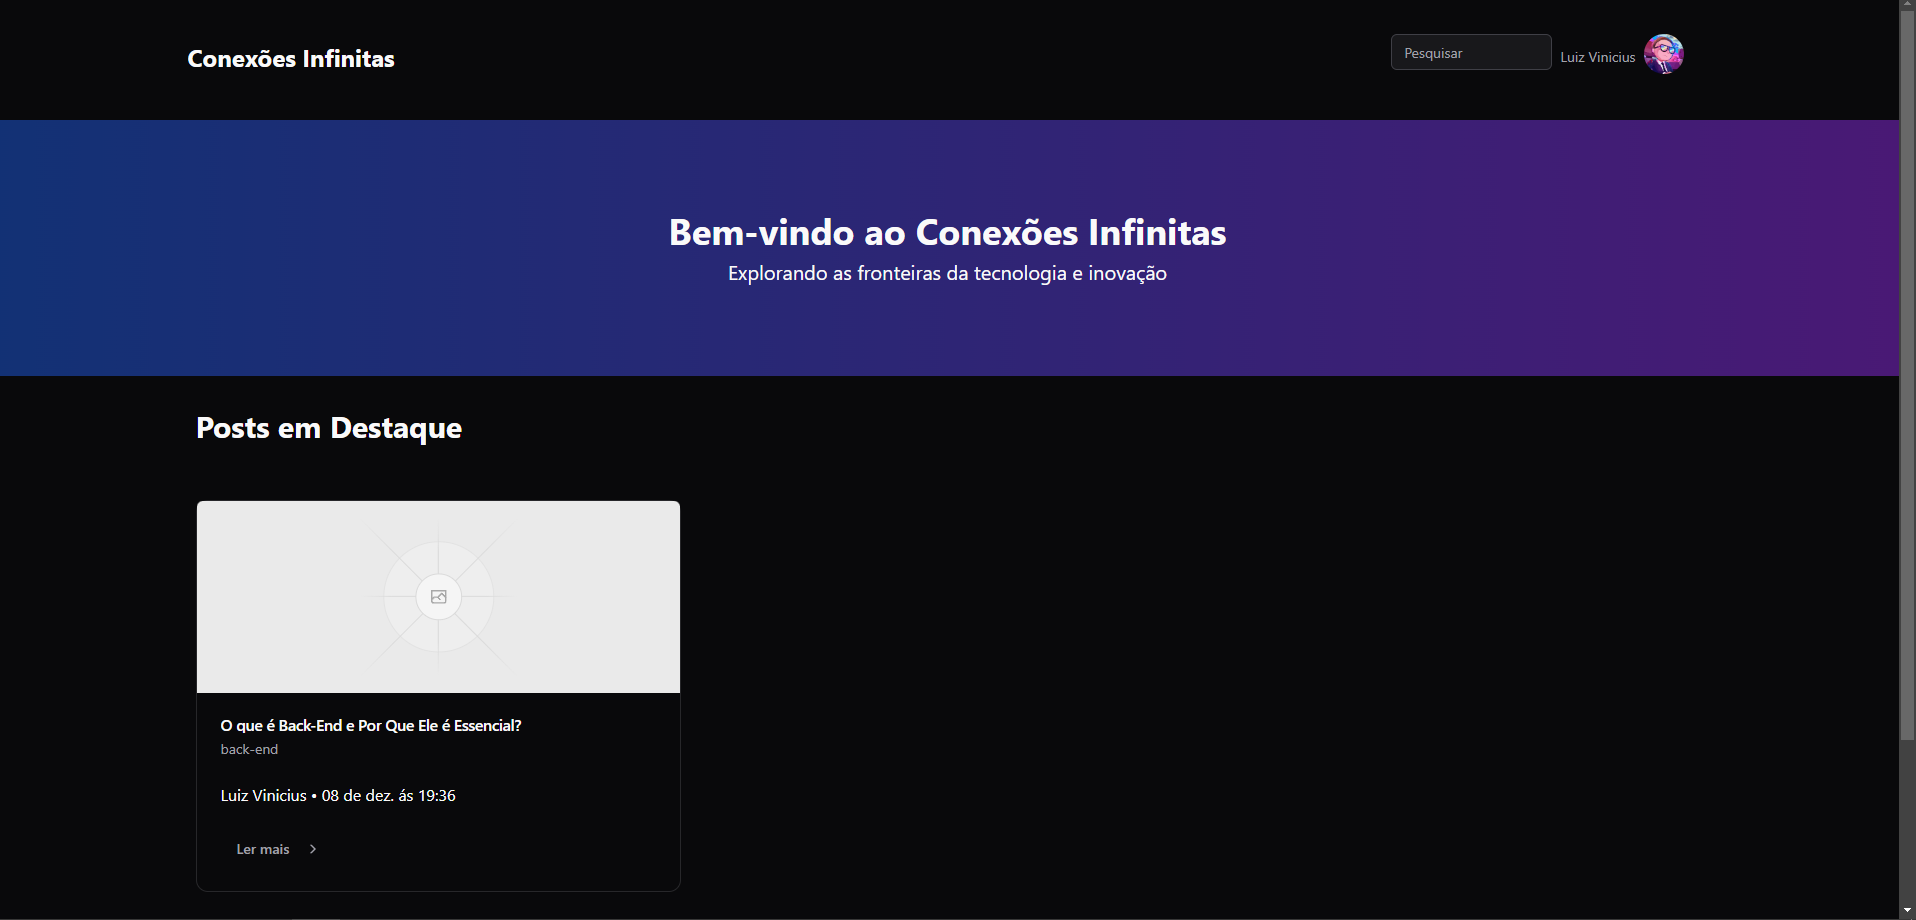
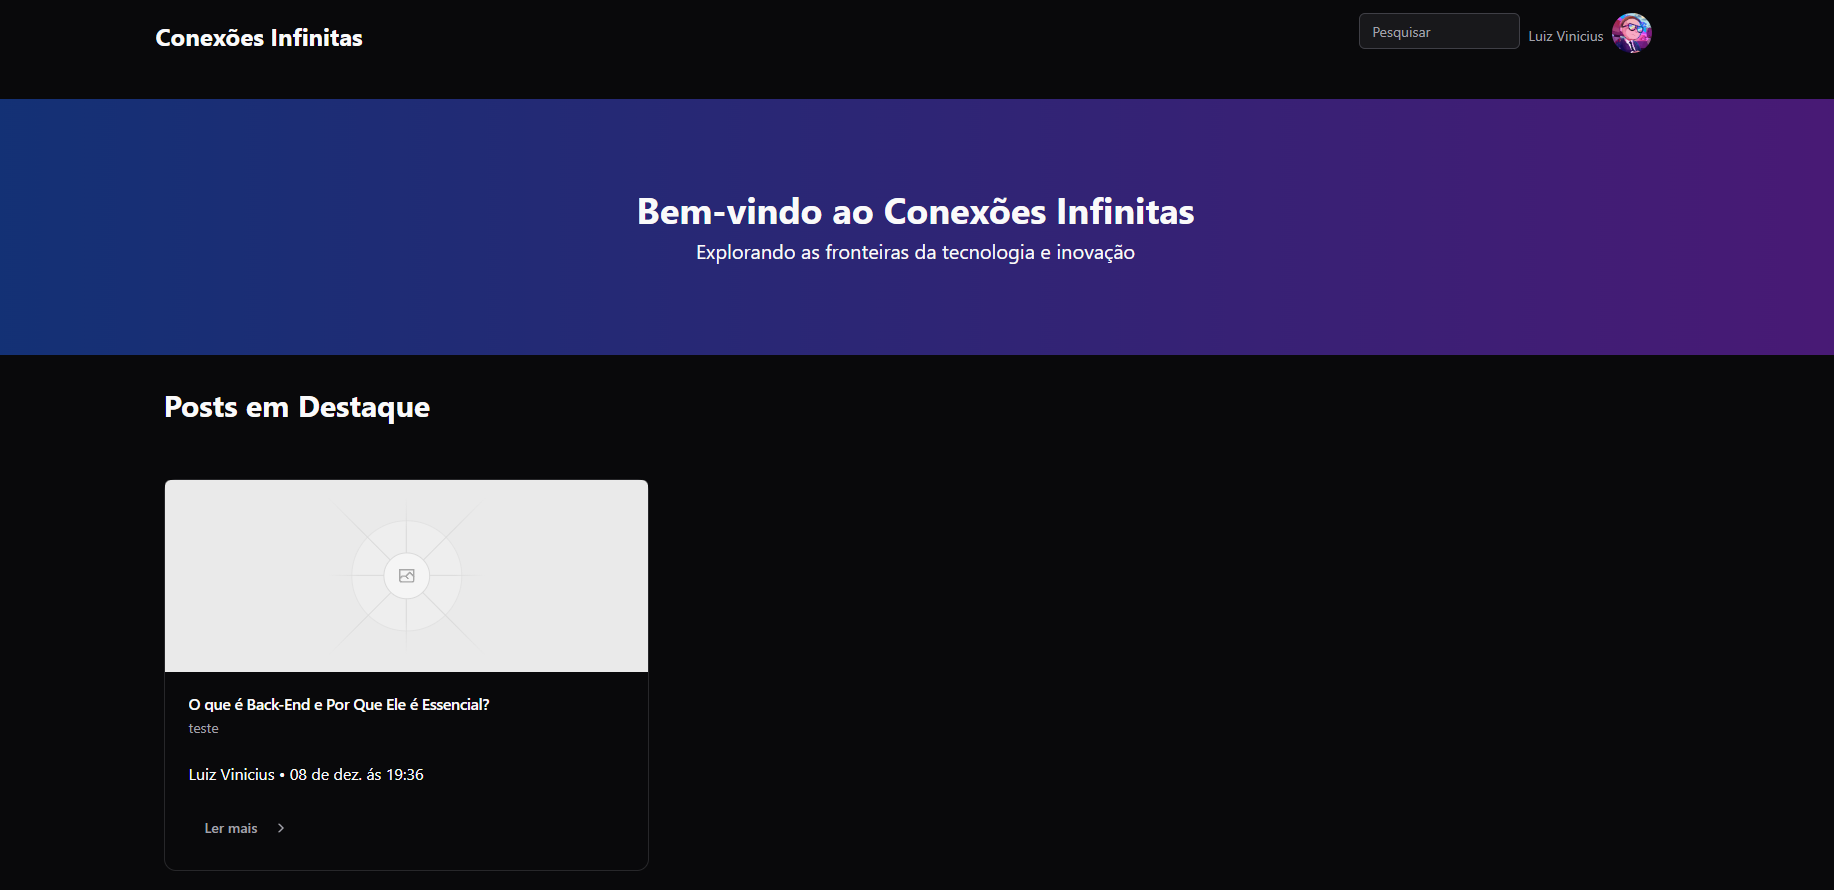
styles: ajuste seção projects, tecnology e formContact

diff --git a/src/components/projects.tsx b/src/components/projects.tsx
@@ -9,7 +9,7 @@ import {
 } from '@/components/ui/card'
 import { Button } from '@/components/ui/button'
 import { Badge } from '@/components/ui/badge'
-import { ArrowLeft, ArrowRight } from 'lucide-react'
+import { ArrowLeft, ArrowRight, Github, Globe } from 'lucide-react'
 
 interface Project {
   id: number
@@ -17,6 +17,8 @@ interface Project {
   description: string
   image: string
   technologies: string[]
+  demoLink?: string
+  link: string
 }
 
 interface ProjectCarouselProps {
@@ -39,8 +41,8 @@ export function ProjectCarousel({ projects }: ProjectCarouselProps) {
   const project = projects[currentIndex]
 
   return (
-    <div className="relative pt-10">
-      <Card className="w-full max-w-4xl mx-auto">
+    <div className="relative">
+      <Card className="w-full mx-auto">
         <CardHeader>
           <img
             src={project.image}
@@ -52,7 +54,7 @@ export function ProjectCarousel({ projects }: ProjectCarouselProps) {
         </CardHeader>
         <CardContent>
           <CardTitle className="mb-2 text-2xl">{project.title}</CardTitle>
-          <CardDescription className="mb-4 text-lg">
+          <CardDescription className="mb-4 text-lg text-left">
             {project.description}
           </CardDescription>
           <div className="flex flex-wrap gap-2 mb-4">
@@ -64,9 +66,25 @@ export function ProjectCarousel({ projects }: ProjectCarouselProps) {
           </div>
         </CardContent>
         <CardFooter className="justify-between">
-          <Button asChild>
-            <a href={`/projetos/${project.id}`}>Ver Detalhes</a>
-          </Button>
+          <div className="flex items-center gap-2">
+            <Button asChild>
+              <a className="flex gap-2" target="blank" href={project.link}>
+                Github <Github />
+              </a>
+            </Button>
+
+            {project.demoLink && (
+              <Button asChild>
+                <a
+                  target="blank"
+                  href={project.demoLink}
+                  className="flex gap-2"
+                >
+                  Acessar site <Globe />
+                </a>
+              </Button>
+            )}
+          </div>
           <div className="flex gap-2">
             <Button variant="outline" size="icon" onClick={prevProject}>
               <ArrowLeft className="w-4 h-4" />

diff --git a/src/App.tsx b/src/App.tsx
@@ -14,14 +14,22 @@ export function App() {
         <Header />
 
         <main className="">
-          <AboutHero />
-          <Technology />
-          <div className="text-center">
-            <h3>Projetos em Destaque </h3>
-            <p>Conheça alguns dos meus trabalhos mais recentes e impactantes</p>
+          <div id="about">
+            <AboutHero />
+          </div>
+          <div id="technologies">
+            <Technology />
+          </div>
+          <div className="py-20 text-center" id="projects">
+            <h3 className="mb-6 text-3xl font-bold">Projetos em destaque</h3>
+            <p className="text-lg text-zinc-300 md:text-lg">
+              Conheça alguns dos meus trabalhos mais recentes e impactantes
+            </p>
             <ProjectCarousel projects={ProjectsOption} />
           </div>
-          <FormContact />
+          <div id="#contact" className="py-40">
+            <FormContact />
+          </div>
         </main>
         <Footer />
       </div>

diff --git a/src/constants/projectOptions.ts b/src/constants/projectOptions.ts
@@ -5,6 +5,7 @@ interface ProjectOption {
   id: number
   technologies: string[]
   description: string
+  demoLink?: string
 }
 
 export const ProjectsOption: ProjectOption[] = [
@@ -16,6 +17,7 @@ export const ProjectsOption: ProjectOption[] = [
       'Plataforma de comércio eletrônico completa com recursos avançados, incluindo pagamentos, gestão de estoque e análises em tempo real.',
     link: 'https://github.com/viniciusbr32/Naped',
     technologies: ['React Native', 'Firebase', 'Redux', 'TypeScript'],
+    demoLink: 'https://naped-mocha.vercel.app/',
   },
   {
     id: 2,
@@ -43,5 +45,6 @@ export const ProjectsOption: ProjectOption[] = [
       'Plataforma de comércio eletrônico completa com recursos avançados, incluindo pagamentos, gestão de estoque e análises em tempo real.',
     link: 'https://conexoes.vercel.app/',
     technologies: ['React Native', 'Firebase', 'Redux', 'TypeScript'],
+    demoLink: 'https://conexoes.vercel.app/',
   },
 ]

diff --git a/src/components/technology.tsx b/src/components/technology.tsx
@@ -4,7 +4,7 @@ import { Card, CardContent } from './ui/card'
 export function Technology() {
   return (
     <div
-      className="flex flex-col items-center justify-center w-full mx-auto max-w-7xl"
+      className="flex flex-col items-center justify-center w-full py-20 mx-auto max-w-7xl"
       id="technology"
     >
       <h2 className="mb-6 text-3xl font-bold">Habilidades</h2>
@@ -14,7 +14,7 @@ export function Technology() {
         e escaláveis, garantindo qualidade e robustez no código:
       </p>
 
-      <div className="grid grid-cols-2 gap-2 pt-10 md:grid-cols-3 lg:grid-cols-8 ">
+      <div className="grid grid-cols-2 gap-2 py-10 md:grid-cols-3 lg:grid-cols-8 ">
         {TecnologyOption.map(tecnology => (
           <Card key={tecnology.title} className="bg-zinc-900 border-zinc-700">
             <CardContent className="flex items-center p-3 md:p-4">

diff --git a/src/components/header.tsx b/src/components/header.tsx
@@ -12,10 +12,10 @@ export function Header() {
             </span>
           </a>
           <nav className="items-center hidden space-x-6 font-medium md:flex">
-            <a href="#sobre">Sobre</a>
-            <a href="#tecnologias">Tecnologias</a>
-            <a href="#projetos">Projetos</a>
-            <a href="#contato">Contato</a>
+            <a href="#about">Sobre</a>
+            <a href="#technologies">Tecnologias</a>
+            <a href="#projects">Projetos</a>
+            <a href="#contact">Contato</a>
           </nav>
         </div>
       </div>
